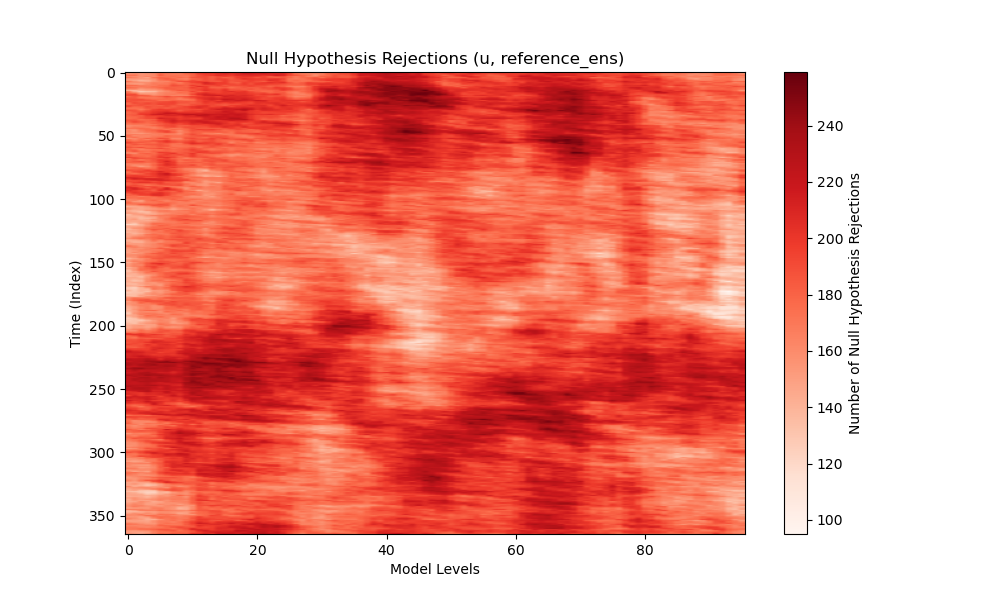
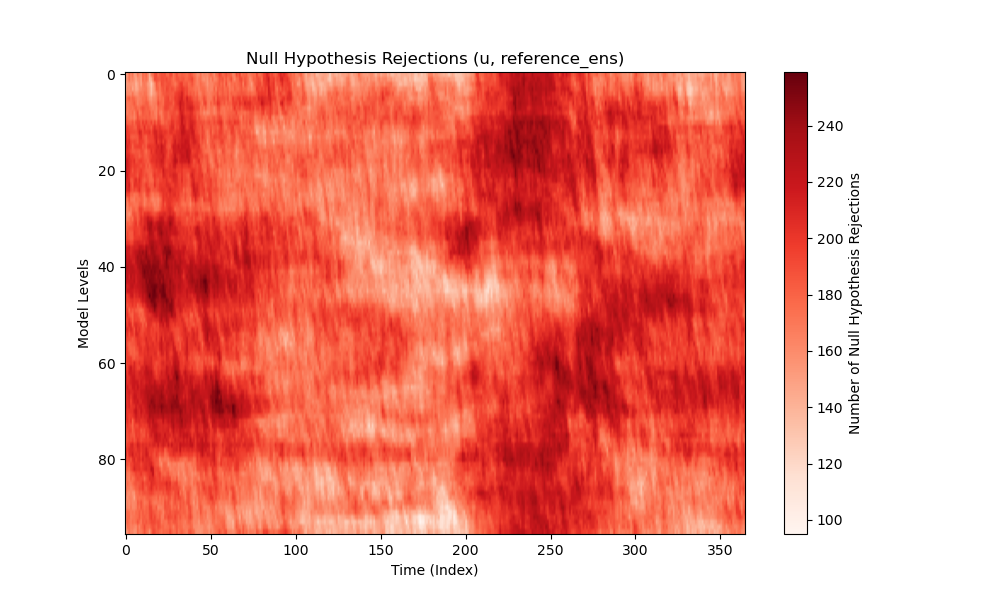
Updated code to switch the axes as they were incorrectly setup

diff --git a/examine_normality_test_pvals.py b/examine_normality_test_pvals.py
@@ -50,17 +50,17 @@ def plot_rejections(rejections, title, output_filename):
     """
     Plot the null hypothesis rejections as a function of latitude, model level, or time.
     """
-    
+    swapped_rejections = np.sum(rejections, axis=(1, 2)).T
+
     plt.figure(figsize=(10, 6))
-    plt.imshow(np.sum(rejections, axis=(1, 2)), aspect='auto', cmap='Reds')
+    plt.imshow(swapped_rejections, aspect='auto', cmap='Reds')
     plt.colorbar(label='Number of Null Hypothesis Rejections')
     plt.title(title)
-    plt.xlabel('Model Levels')
-    plt.ylabel('Time (Index)')
+    plt.xlabel('Time (Index)')
+    plt.ylabel('Model Levels')
     plt.savefig(output_filename)
     print(f"Plot saved to {output_filename}")
     plt.close()
-
 
 def main():
     # Parse command-line inputs
